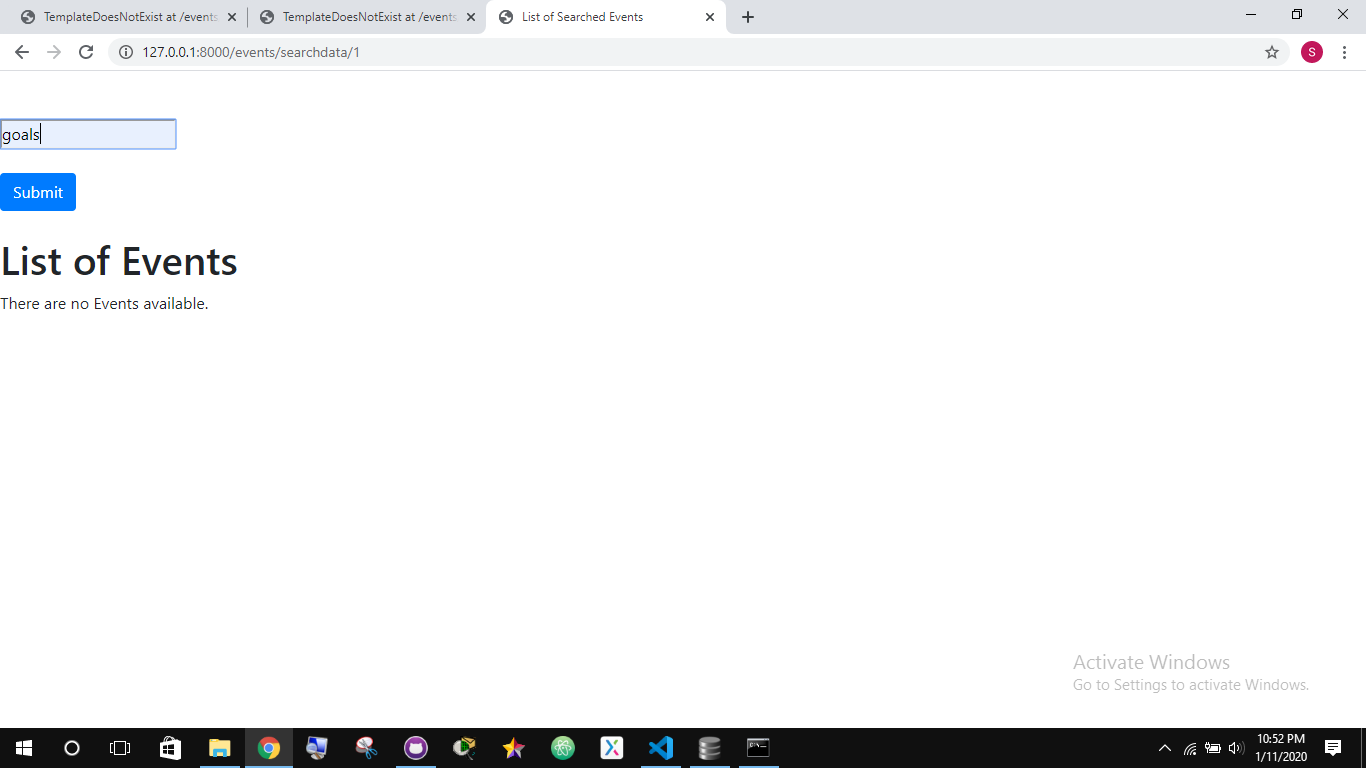
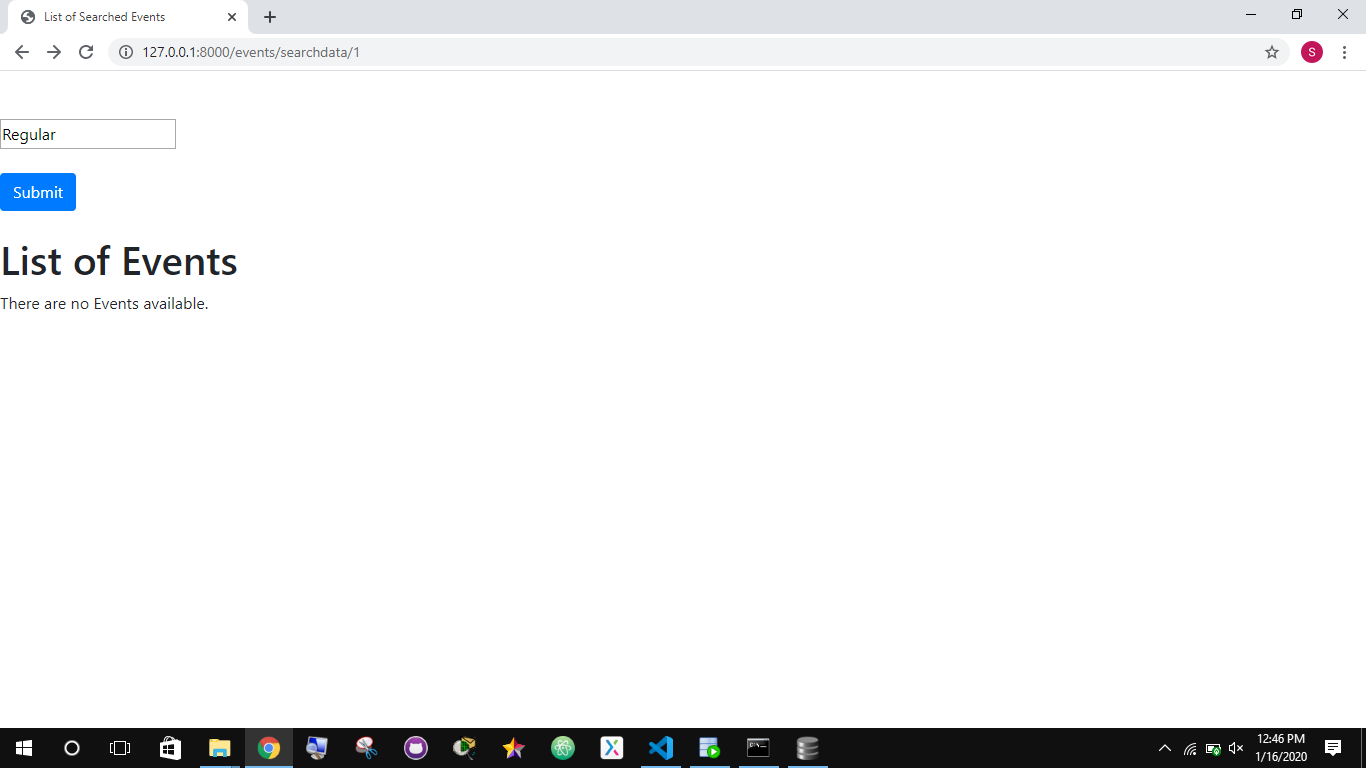
completed search function

diff --git a/FutsalManagementSystem/events/templates/events/search.html b/FutsalManagementSystem/events/templates/events/search.html
@@ -17,7 +17,7 @@
          <h1>
          List of Events
          </h1>
-         {% for e in event %} 
+         {% for e in sr %} 
             <p>Event's Name : {{e.event_name}} </p><br><br>
             <p>Event's Venue : {{e.venue}}</p> <br><br>
             <p>Event's Date: {{e.event_date}}</p><br><br>
@@ -32,3 +32,4 @@
  </html>
  
  
+

diff --git a/FutsalManagementSystem/events/views.py b/FutsalManagementSystem/events/views.py
@@ -33,28 +33,28 @@ def view_update_form_data_in_db(request,ID):
 
 # view function for searhing in the database page
 def view_search_data(request,ID):
-    print(ID)
-    event_obj = Event.objects.get(id=ID)
-    print(event_obj)
-    context_varible = {
-        'event':event_obj
-    }
-    return render(request,'events/searchdata.html',context_varible)
-    # if request.method=='POST':
-    #     search=request.POST['srh']
-    #     if search:
-    #         match=Event.objects.filter(event_name__icontains=search)
+    # print(ID)
+    # event_obj = Event.objects.get(id=ID)
+    # print(event_obj)
+    # context_varible = {
+    #     'event':event_obj
+    
+    # return render(request,'events/searchdata.html',context_varible)
+    if request.method=='POST':
+        search=request.POST['srh']
+        if search:
+            match=Event.objects.filter(event_name__icontains=search)
 
-    #         if match:
-    #             return render(request,'search.html',{'sr':match})
+            if match:
+                return render(request,'events/search.html',{'sr':match})
 
-    #         else:
-    #             return HttpResponse('NO EVENT FOUND!')
+            else:
+                return HttpResponse('NO EVENT FOUND!')
                        
-    #     else:
-    #         return HttpResponse('ENTER EVENT NAME!!')
+        else:
+            return HttpResponse('ENTER EVENT NAME!!')
 
-    # else:
-    #     return render(request,'searchdata.html')
+    else:
+        return render(request,'events/searchdata.html')
 
     
